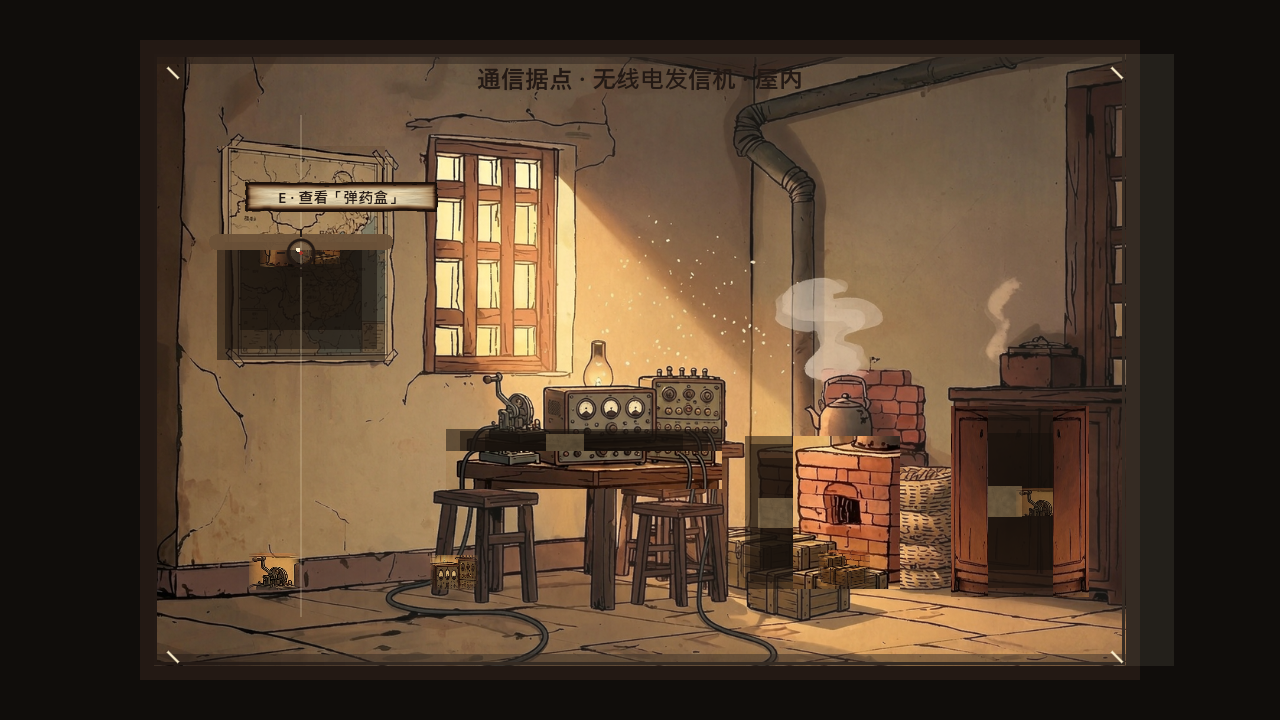
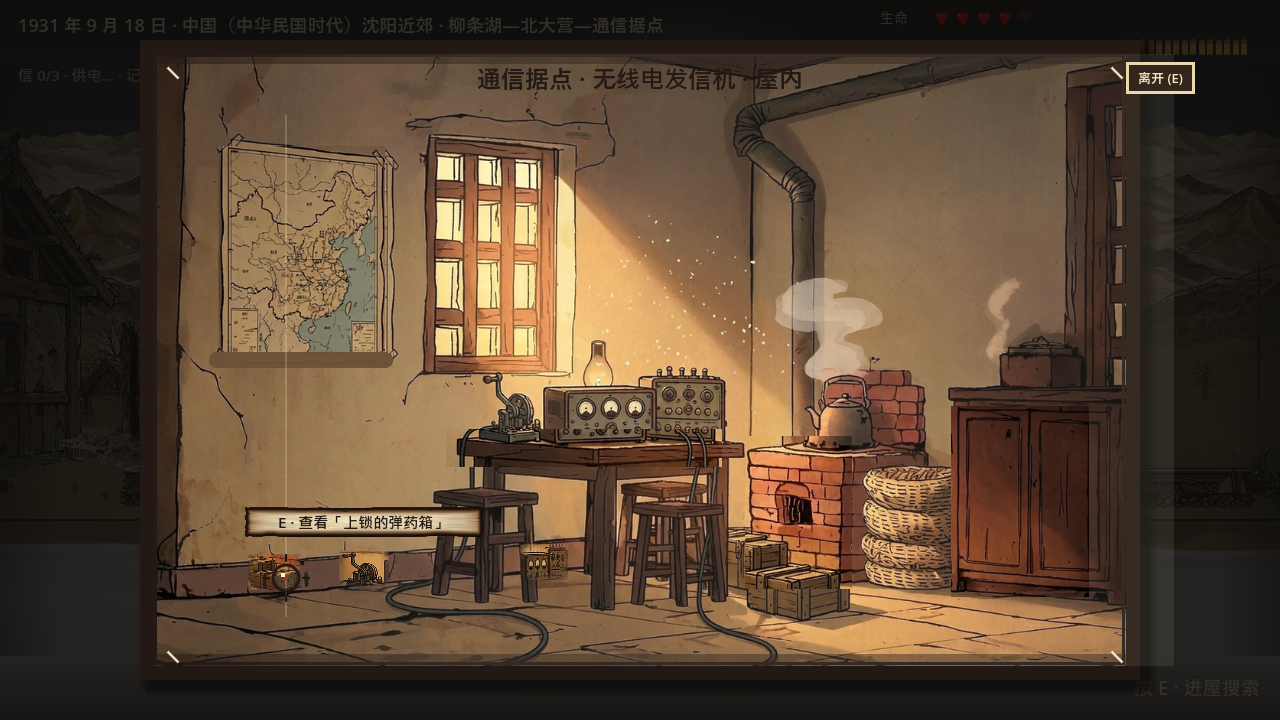
v3.93 · 室内开合四项修正：挂画小暗格+墙色遮罩 / 柜门左右外开+隔板+底层物品 / 抽屉内物品随抽斗 / 灶台去黑块（用户附3张红圈截图，按中式双开门与壁龛参考图修正；dotnet build 0W/0E，像素级核验四区达标）

diff --git a/scripts/InteriorExplore.cs b/scripts/InteriorExplore.cs
@@ -1049,6 +1049,7 @@ public partial class InteriorForeground : Control
         //    → 柜门/画心裁片。裁片在最上层：关闭时完全盖住暗格与物件 ⇒ 「不开就看不见」；
         //      OpenT 平移 + 淡出 ⇒ 开门过程中渐渐看见里面的子弹/手榴弹/遗书。
         //    旧版 Find() 只画第一件，一个柜子藏多件时后面几件永远不出现。
+        var openItems = new List<(Furniture f, RoomItem it, int k, int total)>();
         foreach (var f in _room.Furniture)
         {
             foreach (var it in _room.Items)
@@ -1064,22 +1065,41 @@ public partial class InteriorForeground : Control
                 foreach (var it in _room.Items)
                 {
                     if (it.Mode != RoomItemMode.Container || it.ContainerId != f.Id) continue;
-                    // v3.86：物件排在「由前脸裁片推导出来的暗格」中心，
-                    // 与 AssignPlacement 写入的 it.Pos 用同一套坐标；2 列网格容纳最多 3 件不重叠。
-                    Vector2 rc = IsBurnt
-                        ? RecessRect(f).GetCenter()
-                        : InteriorForeground.RecessCenterMirrored(_room.Type, _room.Variant, f.Type);
-                    int rows = Mathf.CeilToInt(total / 2f);
-                    Vector2 p = rc + new Vector2(
-                        (k % 2 == 0 ? -19f : 19f),
-                        (k / 2 - (rows - 1) * 0.5f) * 30f);
-                    bool near = _room.NearIndex >= 0 && _room.NearIndex < _room.Items.Count
-                                && _room.Items[_room.NearIndex] == it;
-                    DrawItem(it, p, near, f.OpenT);
+                    openItems.Add((f, it, k, total));
                     k++;
                 }
             }
             DrawFurnitureFront(f, _room.WorldTime);
+        }
+        // 容器物件统一画在最上层（门 / 抽屉 / 灶面之后），保证「开后才看见、且不被前脸盖住」。
+        // v3.93：柜子物件落底层（隔板以下）、桌子物件随抽屉下移落进抽屉内。
+        foreach (var (f, it, k, total) in openItems)
+        {
+            Vector2 rc = IsBurnt
+                ? RecessRect(f).GetCenter()
+                : InteriorForeground.RecessCenterMirrored(_room.Type, _room.Variant, f.Type);
+            int rows = Mathf.CeilToInt(total / 2f);
+            Vector2 p = rc + new Vector2(
+                (k % 2 == 0 ? -19f : 19f),
+                (k / 2 - (rows - 1) * 0.5f) * 30f);
+            // 柜子：物品落底层（隔板以下），不顶第二层底
+            if (!IsBurnt && f.Type == FurnitureType.Cabinet)
+            {
+                var cov = CoverRect(_room.Type, f.Type);
+                p.Y = rc.Y + cov.Size.Y * 0.24f;
+            }
+            // 桌子：抽屉抽出后，物品落进抽出的抽屉内（随抽屉下移）
+            if (!IsBurnt && f.Type == FurnitureType.Desk)
+            {
+                if (FrontSrc.TryGetValue((_room.Type, f.Type), out var dsrc))
+                {
+                    var dd = BgRect(dsrc);
+                    p.Y += dd.Size.Y * 1.05f * f.OpenT;
+                }
+            }
+            bool near = _room.NearIndex >= 0 && _room.NearIndex < _room.Items.Count
+                        && _room.Items[_room.NearIndex] == it;
+            DrawItem(it, p, near, f.OpenT);
         }
 
         // 3) 不被遮挡的地落物（画在最前）
@@ -1197,11 +1217,25 @@ public partial class InteriorForeground : Control
             Vector2 bc = f.RecessPos();
             return new Rect2(bc.X - bw / 2f, bc.Y - bh / 2f, bw, bh);
         }
-        // v3.91 关键修正：暗格改为覆盖「整片前脸」，而非内缩小框。
-        // 根因：背景贴图本身就把挂画 / 柜门 / 抽屉画在墙上（前脸裁片就是从背景同一处切的），
-        // 旧版只挖一个内缩小暗格，翻开后四周会露出背景里那幅「关着的」家具原画
-        // —— 正是用户说的「翻开后还是看到挂画 / 柜门」。整片覆盖才能把背景原画遮掉，
-        // 露出真正的暗腔。藏匿物坐标仍由 RecessCenterMirrored（内缩框中心 = 整片中心）决定，不受影响。
+        // v3.93：暗格按家具类型给合理尺寸，不再一律「整片前脸」的大黑块。
+        // 背景贴图本身把挂画 / 地图 / 灶膛火口也画进墙里，所以「翻开的洞口」必须小（参考壁龛：
+        // 洞略大于所放物件即可），否则地图/画卷起来后背景里那幅静止的画会露出来、且洞大得盖不住。
+        // 柜门 / 抽屉拉开后露出的是家具内部，暗腔=整片前脸才合理。
+        if (f.Type == FurnitureType.PictureFrame)
+        {
+            // 小墙洞：仅够容纳物件（挂画后墙洞里的文件）。
+            var c = InteriorForeground.RecessCenterMirrored(_room.Type, _room.Variant, f.Type);
+            float nw = 54f, nh = 58f;
+            return new Rect2(c.X - nw / 2f, c.Y - nh / 2f, nw, nh);
+        }
+        if (f.Type == FurnitureType.Stove)
+        {
+            // 小灶膛口：贴图本就画了拱形火口，暗格只需一口够放遗书的小洞，不把整片灶面填黑。
+            var c = InteriorForeground.RecessCenterMirrored(_room.Type, _room.Variant, f.Type);
+            float nw = 48f, nh = 54f;
+            return new Rect2(c.X - nw / 2f, c.Y - nh / 2f, nw, nh);
+        }
+        // 柜子 / 桌子：暗腔=整片前脸（门 / 抽屉拉开后露出的内部）。
         return CoverRect(_room.Type, f.Type);
     }
 
@@ -1225,33 +1259,76 @@ public partial class InteriorForeground : Control
     }
 
     /// <summary>
+    /// 小墙洞：仅物件大小的凹陷暗腔（三层嵌套近不透明暗矩形，边缘→中心渐不透明，读作洞）。
+    /// 用于挂画后墙洞、灶膛口这类「洞略大于物件即可」的小开口，避免整片前脸被填黑。
+    /// </summary>
+    private void DrawSmallNiche(Rect2 r, float a)
+    {
+        const float cr = 0.10f, cg = 0.07f, cb = 0.05f;
+        DrawRect(r,                                   new Color(cr, cg, cb, 0.92f * a));
+        DrawRect(new Rect2(r.Position + r.Size * 0.10f, r.Size * 0.80f), new Color(cr, cg, cb, 0.97f * a));
+        DrawRect(new Rect2(r.Position + r.Size * 0.20f, r.Size * 0.60f), new Color(0.07f, 0.05f, 0.035f, 1.00f * a));
+        if (_shadowTex != null)
+            DrawTextureRect(_shadowTex, r, false, new Color(0.05f, 0.035f, 0.025f, 0.45f * a));
+    }
+
+    /// <summary>
     /// v3.71 用户诉求①：物件不平贴背景，要有纵深 —— 家具主体（含凹洞）提供遮挡关系。
-    /// 先画凹洞（暗腔），再画家具 carcass 包住它；藏匿物在 _Draw 里于 body 与 front 之间露出。
+    /// 先画凹洞（暗腔），再画家具 carcass 包住它；藏匿物在 _Draw 后处理里画在最上层（开后才见、不被前脸盖）。
+    /// v3.93：挂画卷起后露出的区域用墙色遮罩盖掉背景里那幅静止的画；柜子画隔板分上下两层；
+    ///          灶台只露小灶膛口（不再整片灶面填黑）。
     /// </summary>
     private void DrawFurnitureBody(Furniture f, WorldClock.Phase t)
     {
-        // v3.90 暗格：复用 v3.86 已验收的淡墨软阴影贴图（contact_shadow）以深墨棕压暗采样，
-        // 画成「带柔和边缘的凹陷暗腔」，取代旧版的纯色硬边矩形 / 平贴重采样色块
-        // （用户与 ViewImage 均判读为「墙上贴了块方块、无凹陷感」）。零新增美术资产。
         if (f.OpenT <= 0.02f) return;
         var r = RecessRect(f);
         float a = Mathf.Clamp(f.OpenT, 0f, 1f);
-        const float inset = 0.14f;
-        var inner = new Rect2(r.Position + r.Size * inset, r.Size * (1f - 2f * inset));
 
-        // v3.91 关键修正：暗格必须先以「近乎不透明」的暗腔盖住背景里那幅关着的家具原画
-        // （背景贴图本身就把挂画 / 柜门 / 抽屉画在墙上，前脸裁片就是从背景同一处切的）。
-        // 旧版只用半透明 soft-shadow（中心暗、四周全透）去遮，结果背景原画从边缘 + 半透明处透出来，
-        // 用户就会看到「翻开后挂画 / 柜门还在」。
-        // 现在：三层嵌套暗矩形做不透明基底（边缘→中心渐不透明，读作凹陷的洞，彻底遮掉背景原画），
-        // 再叠 soft-shadow 贴图只做深度暗示，不再承担「遮背景」职责。
+        // 挂画：卷起后露出的下半部应是墙，不是背景里那幅静止的画（背景贴图把画也画进墙了）。
+        // 用墙色遮罩盖掉静止的画，再画一个仅够容纳物件的小墙洞。
+        if (!IsBurnt && f.Type == FurnitureType.PictureFrame)
+        {
+            if (FrontSrc.TryGetValue((_room.Type, f.Type), out var psrc))
+            {
+                var pdst = BgRect(psrc);
+                float visibleH = pdst.Size.Y * (1f - f.OpenT);
+                var wallDst = new Rect2(pdst.Position.X, pdst.Position.Y + visibleH,
+                                        pdst.Size.X, pdst.Size.Y - visibleH);
+                Color wall = _room.Type == RoomType.CommOutpost
+                    ? new Color(0.49f, 0.366f, 0.253f, a)
+                    : new Color(0.47f, 0.358f, 0.248f, a);
+                DrawRect(wallDst, wall);
+            }
+            DrawSmallNiche(r, a);
+            return;
+        }
+
+        // 灶台：仅露小灶膛口（贴图本就画了拱形火口），不把整片灶面填黑。
+        if (!IsBurnt && f.Type == FurnitureType.Stove)
+        {
+            DrawSmallNiche(r, a);
+            return;
+        }
+
+        // 柜子 / 桌子：暗腔=整片前脸（门 / 抽屉拉开后露出的内部）。
         const float cr = 0.10f, cg = 0.07f, cb = 0.05f;
-        DrawRect(r,                                   new Color(cr, cg, cb, 0.94f * a));
+        const float inset = 0.10f;
+        var inner = new Rect2(r.Position + r.Size * inset, r.Size * (1f - 2f * inset));
+        DrawRect(r,                                 new Color(cr, cg, cb, 0.94f * a));
         DrawRect(new Rect2(r.Position + r.Size * 0.05f, r.Size * 0.90f), new Color(cr, cg, cb, 0.98f * a));
-        DrawRect(inner,                              new Color(0.08f, 0.06f, 0.04f, 1.00f * a));
+        DrawRect(inner,                            new Color(0.08f, 0.06f, 0.04f, 1.00f * a));
+        if (!IsBurnt && f.Type == FurnitureType.Cabinet)
+        {
+            // 隔板：把柜内分成上下两层，物品落底层（不顶第二层底）。
+            float shelfY = r.Position.Y + r.Size.Y * 0.52f;
+            float sh = Mathf.Max(3f, r.Size.Y * 0.035f);
+            DrawRect(new Rect2(r.Position.X + r.Size.X * 0.06f, shelfY, r.Size.X * 0.88f, sh),
+                     new Color(0.20f, 0.15f, 0.10f, 0.95f * a));
+            DrawRect(new Rect2(r.Position.X + r.Size.X * 0.06f, shelfY + sh, r.Size.X * 0.88f, sh * 0.6f),
+                     new Color(0.04f, 0.03f, 0.02f, 0.8f * a));
+        }
         if (_shadowTex != null)
         {
-            // soft-shadow 只做柔腔深度（中心压暗），叠在不透明基底上，绝不靠它去遮背景
             DrawTextureRect(_shadowTex, r,     false, new Color(0.05f, 0.035f, 0.025f, 0.50f * a));
             DrawTextureRect(_shadowTex, inner, false, new Color(0.03f, 0.02f, 0.015f, 0.50f * a));
         }
@@ -1325,36 +1402,19 @@ public partial class InteriorForeground : Control
 
         if (f.Type == FurnitureType.Cabinet)
         {
-            // v3.92 双开门（对开门）：两扇门各自以外侧合页为轴，开启时向两侧「压扁」（水平透视缩短），
-            // 露出门后暗腔与藏物；ot→1 时两扇收成门侧窄条、中间暗腔完全露出。
-            // 每扇门把「整片半边门面」横向压缩进窄条（而非只取门边），确保左右两扇都看得到木门面；
-            // 背景只画了一扇门且右半偏暗，故两扇均取亮的左半源、右扇再水平镜像让亮木纹朝外、左右对称。
-            // 参考用户 2026-11-13 所发「中式双开门老柜子」图：两扇门各自向左右翻开、平贴两侧。
-            float scale = 1f - ot * 0.86f;            // 1(关) → 0.14(全开，收成门侧窄条)
-            float halfDstW = dst.Size.X * 0.5f;
-            float wL = halfDstW * scale;
-            float wR = halfDstW * scale;
-            // 显式设定基础矩阵，避免继承上一件家具遗留的变换状态
+            // v3.93 双开门：两扇门各自以外侧合页为轴，向左右展开（左门往左、右门往右），
+            // 中部露出暗腔 + 隔板，物品落底层。参考中式两门对开柜（中缝居中、内部隔板两层）。
+            // 门板取自背景裁片左 / 右半（即原本画在墙上的那两扇门），旋开后门面木纹 / 把手都在。
+            float doorW = dst.Size.X * 0.5f;
+            float open = doorW * 0.66f * ot;       // 门向外伸出的量（左门向左、右门向右）
+            float w = doorW * (1f - 0.32f * ot);   // 略压缩读成透视，避免门板仍占满整片
+            Rect2 dstL = new Rect2(dst.Position.X - open, dst.Position.Y, w, dst.Size.Y);
+            Rect2 srcL = new Rect2(src.Position.X, src.Position.Y, src.Size.X * 0.5f, src.Size.Y);
+            Rect2 dstR = new Rect2(dst.Position.X + doorW + open, dst.Position.Y, w, dst.Size.Y);
+            Rect2 srcR = new Rect2(src.Position.X + src.Size.X * 0.5f, src.Position.Y, src.Size.X * 0.5f, src.Size.Y);
             DrawSetTransformMatrix(mirror ? mirrorM : Transform2D.Identity);
-            // 左扇：整片左半门面横向压缩进左缘窄条（合页在左）
-            {
-                Rect2 dstL = new Rect2(dst.Position.X, dst.Position.Y, wL, dst.Size.Y);
-                Rect2 srcL = new Rect2(src.Position.X, src.Position.Y, src.Size.X * 0.5f, src.Size.Y);
-                DrawTextureRectRegion(_roomTex, dstL, srcL, new Color(1f, 1f, 1f, 1f));
-            }
-            // 右扇：取亮的左半门面、水平镜像后压缩进右缘窄条，使亮木纹朝外、左右对称
-            {
-                Rect2 dstR = new Rect2(dst.Position.X + dst.Size.X - wR, dst.Position.Y, wR, dst.Size.Y);
-                Rect2 srcR = new Rect2(src.Position.X, src.Position.Y, src.Size.X * 0.5f, src.Size.Y);
-                if (!mirror)
-                {
-                    // 在右窄条内做水平镜像，让亮木纹落在右扇外侧（origin = 2*X + W 使窄条原地镜像）
-                    var flip = new Transform2D(new Vector2(-1f, 0f), new Vector2(0f, 1f),
-                                               new Vector2(2f * dstR.Position.X + dstR.Size.X, 0f));
-                    DrawSetTransformMatrix(flip);
-                }
-                DrawTextureRectRegion(_roomTex, dstR, srcR, new Color(1f, 1f, 1f, 1f));
-            }
+            DrawTextureRectRegion(_roomTex, dstL, srcL, new Color(1f, 1f, 1f, 1f));
+            DrawTextureRectRegion(_roomTex, dstR, srcR, new Color(1f, 1f, 1f, 1f));
             DrawSetTransformMatrix(Transform2D.Identity);
             return;
         }
@@ -1376,10 +1436,10 @@ public partial class InteriorForeground : Control
             return;
         }
 
-        // 灶面：保持平移掀开（非门非卷轴），但不淡出，避免「闪现」
+        // 灶面：保持本位（不整片平移变黑）。背景贴图本就画了拱形火口，开启时由 DrawFurnitureBody
+        // 的小灶膛口（暗格）露遗书，避免「整片灶面填黑成一大块」。
         if (mirror) DrawSetTransformMatrix(mirrorM);
-        var sDst = new Rect2(dst.Position.X + dst.Size.X * 0.82f * ot, dst.Position.Y, dst.Size.X, dst.Size.Y);
-        DrawTextureRectRegion(_roomTex, sDst, src, new Color(1f, 1f, 1f, 1f));
+        DrawTextureRectRegion(_roomTex, dst, src, new Color(1f, 1f, 1f, 1f));
         if (mirror) DrawSetTransformMatrix(Transform2D.Identity);
 
         // v3.85：删掉「未开且靠近」时画在柜门/画心上的亮黄四角线。
